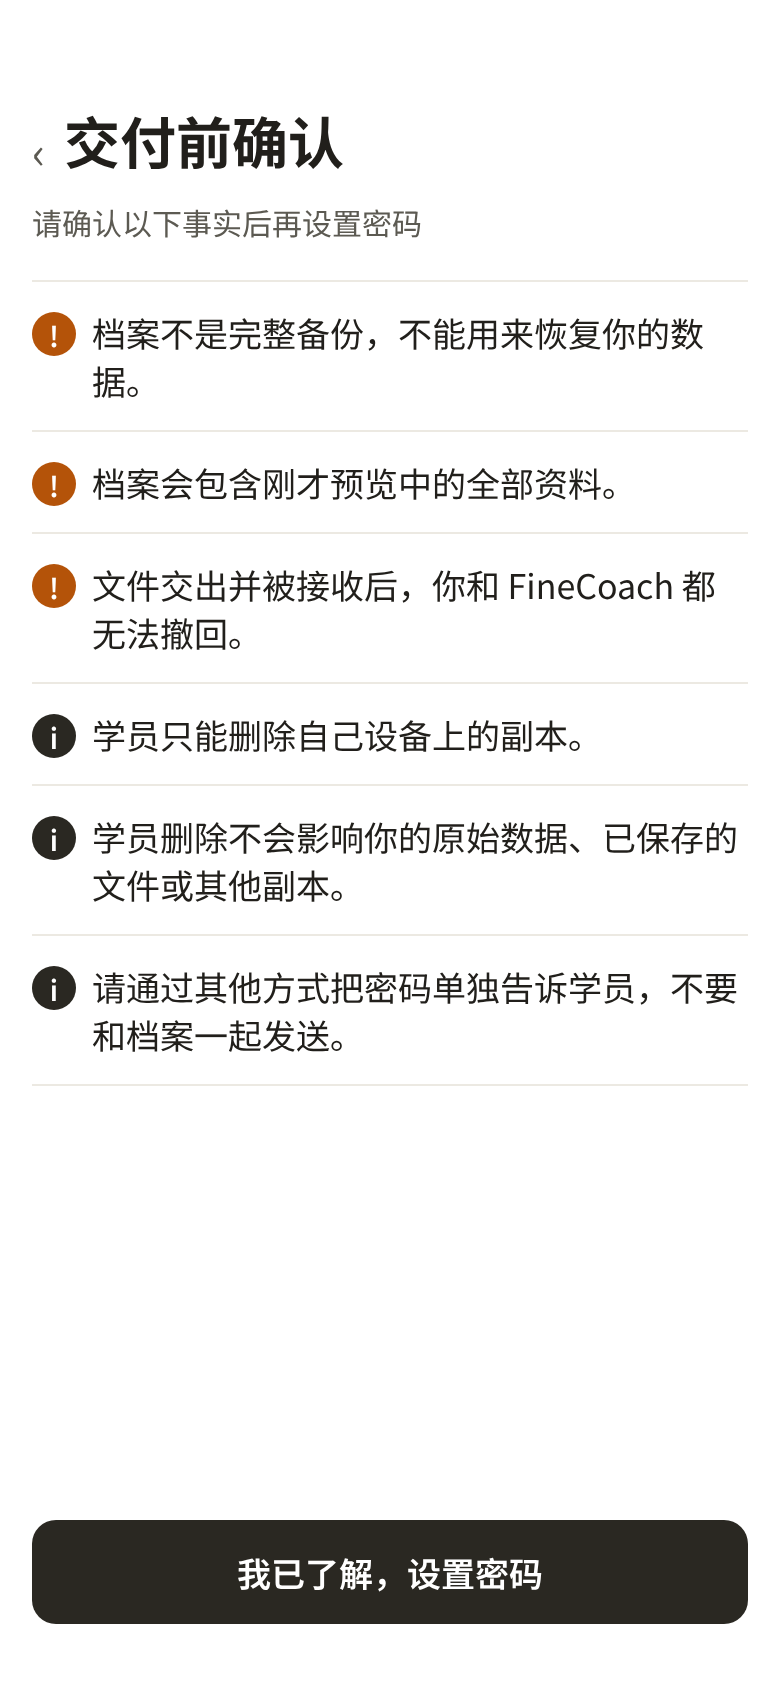
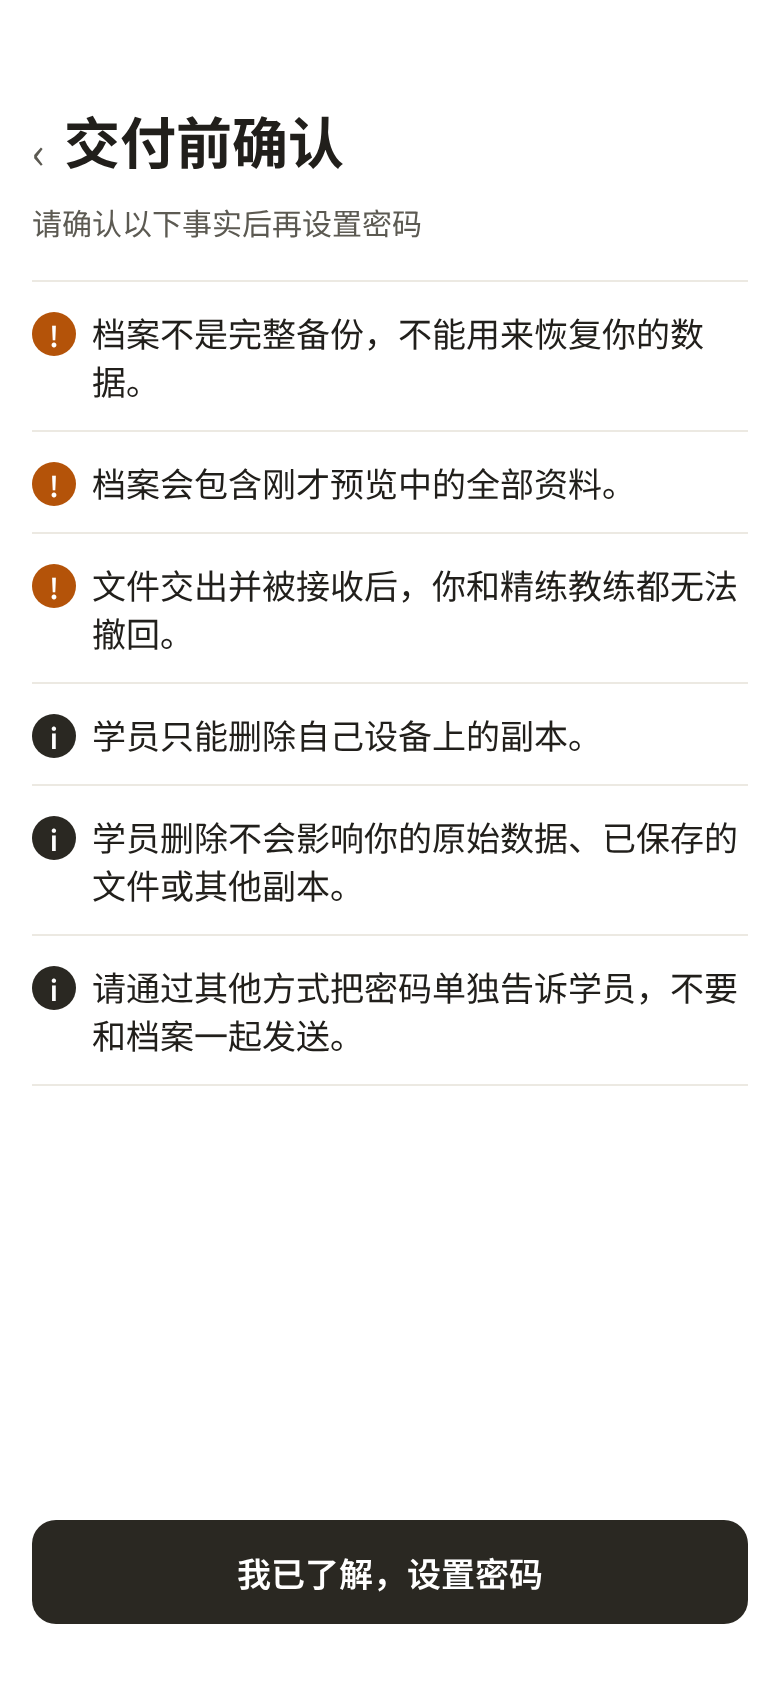
docs(design): refresh M2 hi-fi 2x exports and add welcome page exports (Penpot revn 266)
Owner batch-exported all boards at 2x on 2026-10-10. Brand-name copy changes
(M2-03/04/06a-d/07/09) and the welcome boards W-01b/W-02 are new; M2-02a/02b/15/17
also differ because their Penpot boards were edited by the M2 design-system fixes;
remaining boards differ only by a few hundred bytes of re-render noise.

Changed region(s): [[0.6462, 0.3389, 0.9538, 0.3697], [0.1231, 0.3697, 0.3077, 0.4005]]

diff --git a/design/m2-hifi/welcome-redesign.md b/design/m2-hifi/welcome-redesign.md
@@ -10,7 +10,7 @@
 | Penpot 文件 | 「M1-B G5 Design」→ 页面「M2 G7 Design」，画板放在 M2 画板下方一行（y = 3720） |
 | 画板 | `W-01b 首次说明 · 方案 B 要点清单（已选定 r3）`、`W-02 首次说明 · 数据说明面板（从链接打开，r3）`；`W-01a 首次说明 · 方案 A 插画欢迎（未采用）`保留作记录 |
 | Penpot 快照 | 绘制前 `before-welcome-redesign 2026-10-10`（revn 253）→ `welcome-redesign-draft 2026-10-10 (W-01a/W-01b/W-02, pending owner review)`（revn 263）→ `before-welcome-B-r2 2026-10-10` → `welcome-B-r2 2026-10-10 (B selected; point subtitles moved to sheet; lock icon; pending owner review)`（revn 265）→ `before-welcome-r3-brand 2026-10-10` → `welcome-r3-brand 2026-10-10 (W-01b back to M2-07; UI brand FineCoach->精练教练 on M2-03/04/06a-d/07/09, W-02)`（revn 266）。每次 `File.validate()` 0 个错误 |
-| 导出图 | 未导出。绘制时用 MCP `export_shape`（1 倍）只做排版自查，不作为验收图；批准后由产品负责人按 2 倍预设导出到 `design/m2-hifi/screens/` |
+| 导出图 | `design/m2-hifi/screens/W-01b-welcome-points.png`、`W-02-welcome-data-sheet.png`（2 倍，宽 780）。2026-10-10 产品负责人在 Penpot 用 2 倍导出预设（全部画板已统一为单条 PNG 2x）批量导出 r3；绘制期间的 MCP 1 倍导出只用于排版自查 |
 | 行为权威 | `[specs] 001-m1-a-core-session/spec.md` M1A-FR-001、M1A-FR-002、AC-001、M1A-FR-037；`[specs] 002-m1-b-coach-operations/spec.md` M1B-FR-009、M1B-FR-030；`[specs] 003-m2-personal-training-archive/spec.md` M2-FR-025、tasks T039 |
 
 ## 2. 首次启动的页面顺序（与 M2-07 衔接）
